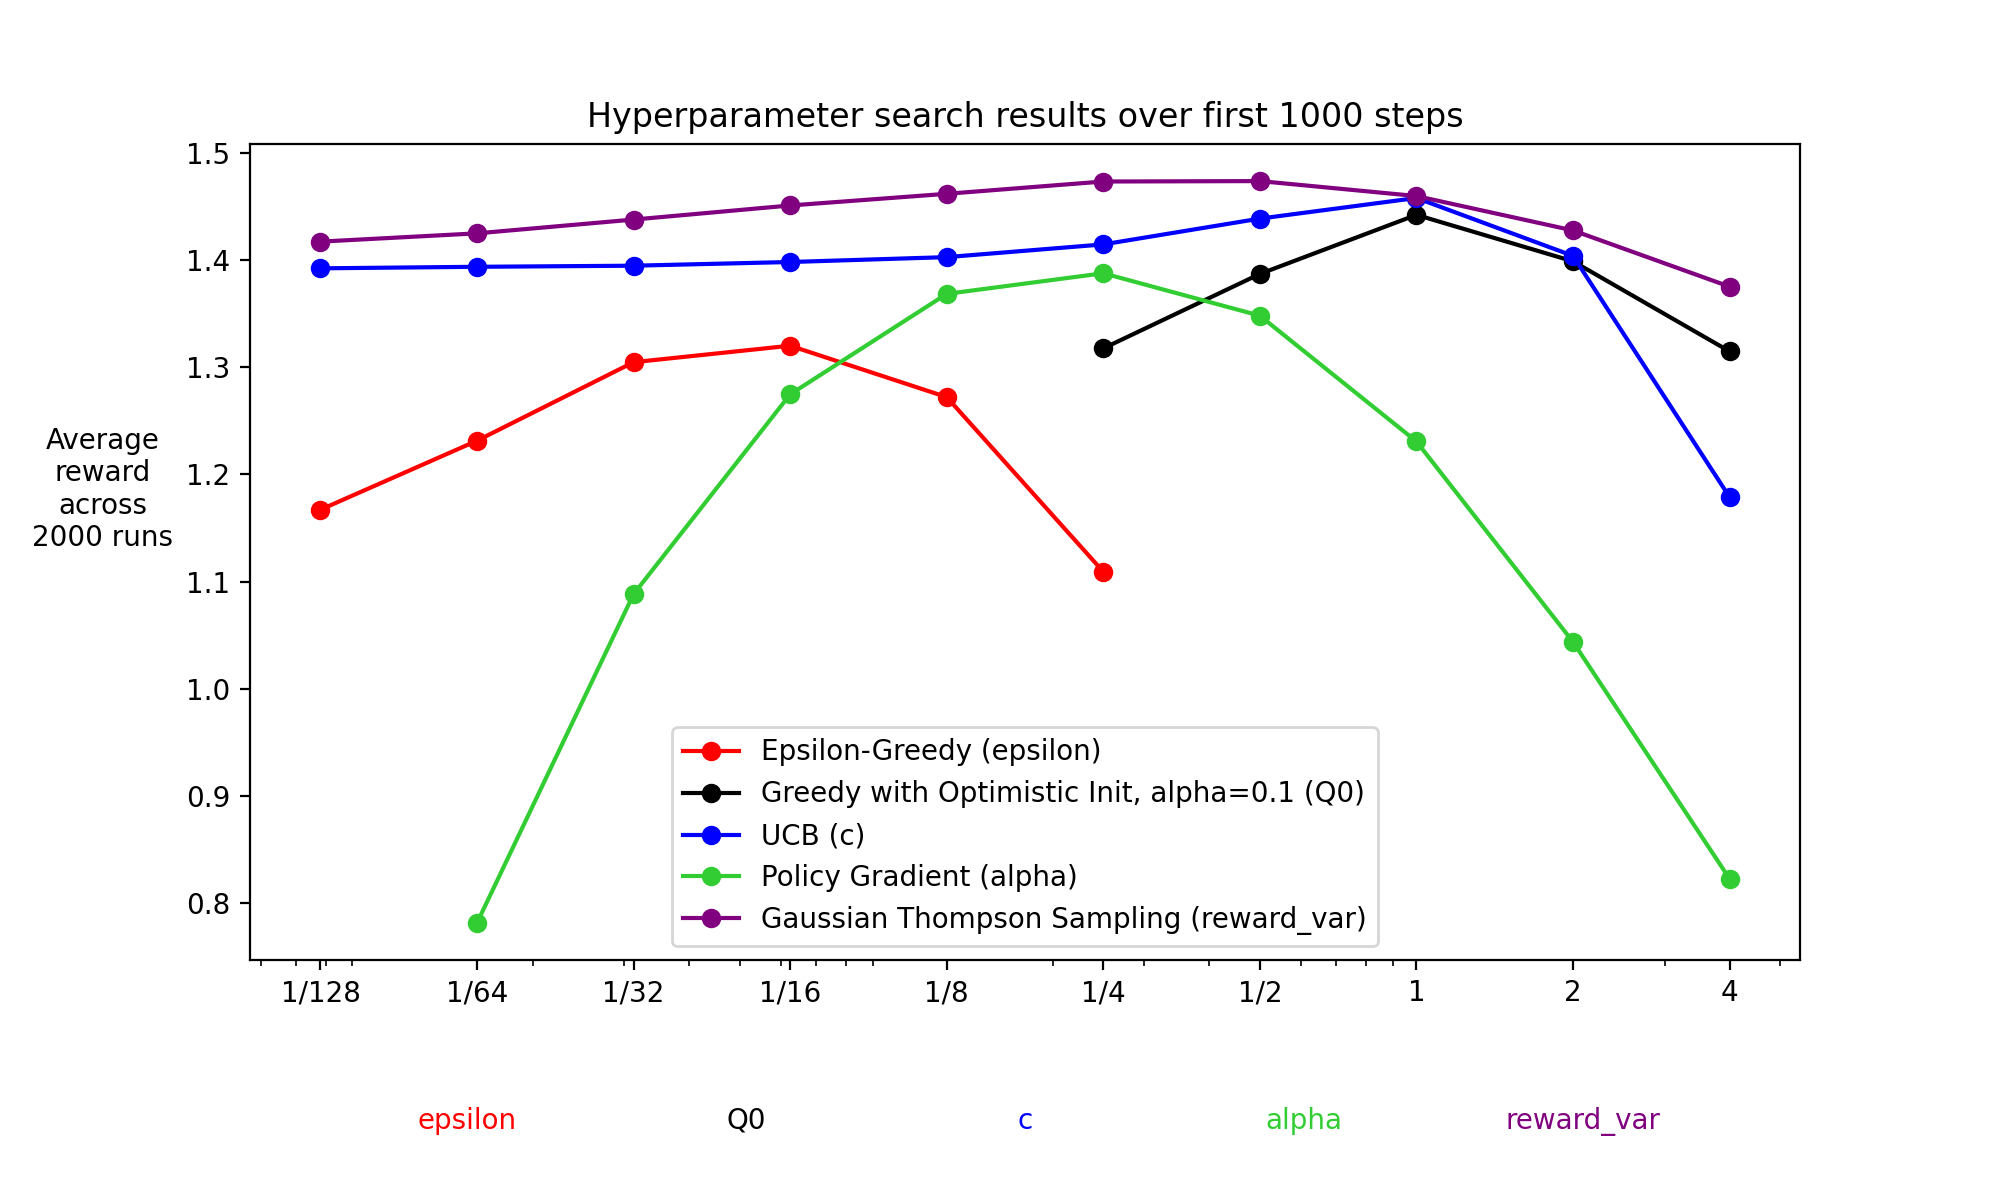
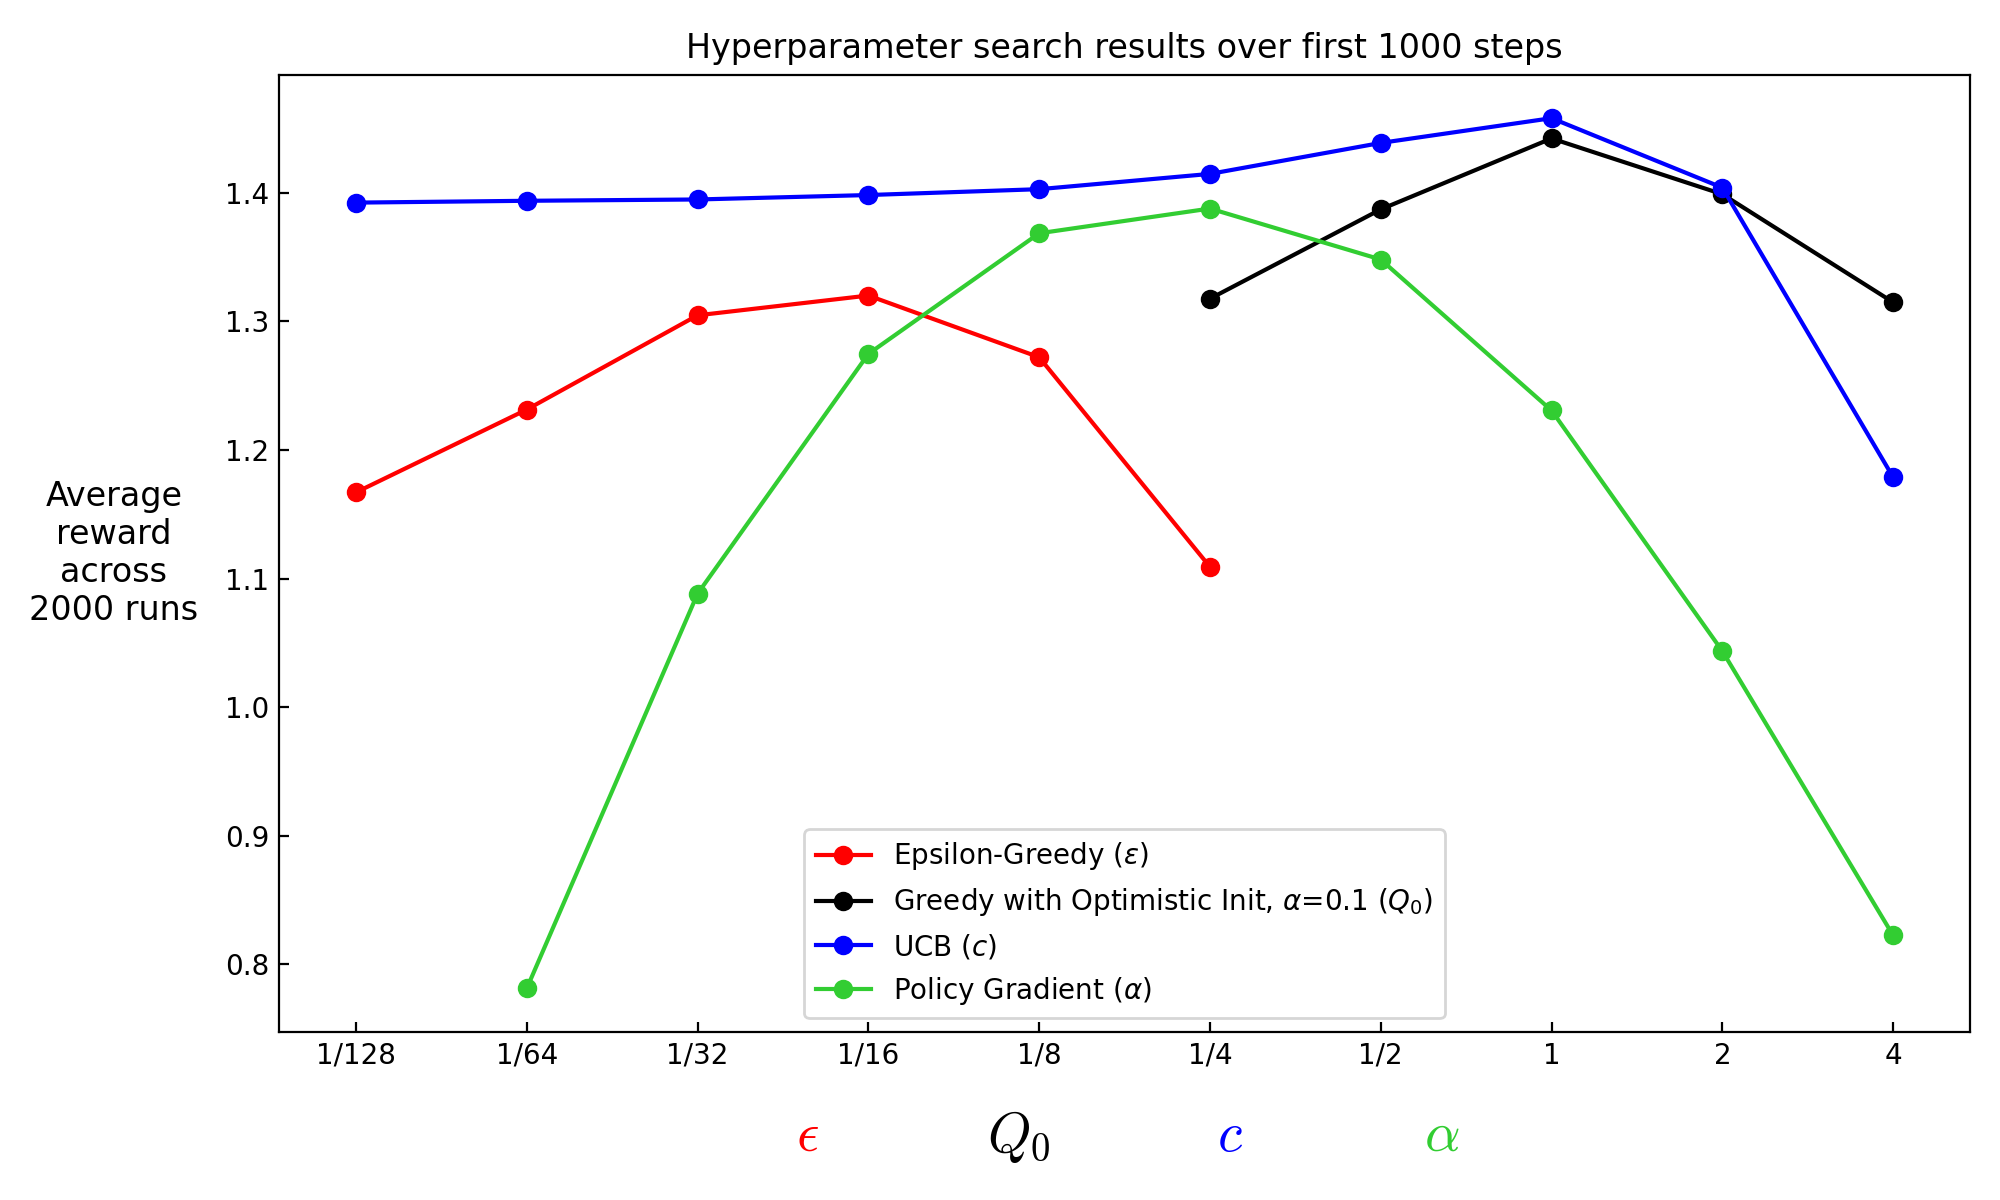
Bandit results visualised

diff --git a/bandits/main.py b/bandits/main.py
@@ -1,6 +1,7 @@
 from dataclasses import dataclass
 from typing import Callable, Tuple
 from pathlib import Path
+import re
 import os
 import json
 import numpy as np
@@ -201,8 +202,10 @@ def do_parameter_search(cache_folder: Path, params: list[dict], sims: int, sim_l
 
     for spec in params:
         agent_cls = spec.get('class')
+        assert agent_cls is not None, f"Missing 'class' in spec: {spec}"
         series_name = spec.get('name', getattr(agent_cls, '__name__', 'agent'))
         plot_colour = spec.get('plot_colour', 'black')
+        hyper_label = spec.get('hyper_name')
 
         # find the single hyperparameter key whose value is a list/tuple
         list_keys = [k for k, v in spec.items() if isinstance(v, (list, tuple))]
@@ -215,13 +218,13 @@ def do_parameter_search(cache_folder: Path, params: list[dict], sims: int, sim_l
         hyper_key = list_keys[0]
         values = list(spec[hyper_key])
 
-        results[series_name] = (plot_colour, hyper_key, {})
+        results[series_name] = (plot_colour, hyper_label or hyper_key, {})
 
         for val in values:
             # build agent kwargs: copy scalar entries, replace list with current val
             agent_kwargs: dict = {}
             for k, v in spec.items():
-                if k in ('class', 'name', 'plot_colour'):
+                if k in ('class', 'name', 'plot_colour', 'hyper_name'):
                     continue
                 if k == hyper_key and isinstance(v, (list, tuple)):
                     agent_kwargs[k] = val
@@ -274,14 +277,14 @@ def do_parameter_search(cache_folder: Path, params: list[dict], sims: int, sim_l
             n_steps = int(agg.get('n_steps', mean_reward.size))
 
             # area under learning curve (normalized per step)
-            auc = float(np.trapz(mean_reward))
+            auc = float(np.trapezoid(mean_reward))
             avg_per_step = auc / float(n_steps)
 
             results[series_name][2][float(val)] = avg_per_step
 
     return results
 
-def figure_2_6(results_folder: str, datapoints: dict, sims: int, sim_length: int):
+def figure_2_6(results_folder: str, datapoints: dict, sims: int, sim_length: int, name: str=""):
     # datapoints: { series_name: (plot_colour, hyperparameter_name, {x_val: y_val, ...}), ... }
     if not datapoints:
         print("No datapoints provided to figure_2_6")
@@ -306,6 +309,7 @@ def figure_2_6(results_folder: str, datapoints: dict, sims: int, sim_length: int
 
     # plot each series
     for series_name, (colour, hyperparameter_name, mapping) in datapoints.items():
+        series_name = re.sub(r'alpha', r'$\\alpha$', series_name, flags=re.IGNORECASE)
         # sort by x value (keys may be numeric already)
         items = sorted(mapping.items(), key=lambda t: float(t[0]))
         x = [float(t[0]) for t in items]
@@ -315,6 +319,8 @@ def figure_2_6(results_folder: str, datapoints: dict, sims: int, sim_length: int
 
     if use_log_x:
         ax.set_xscale('log')
+        ax.tick_params(axis="both", which="major", direction="in")
+        ax.minorticks_off()
 
     # Set x ticks to powers of two that cover the data range
     if numeric_x:
@@ -341,7 +347,7 @@ def figure_2_6(results_folder: str, datapoints: dict, sims: int, sim_length: int
                 ax.set_xticklabels(tick_labels)
 
     # rotate the y axis label by 90 degrees
-    ax.set_ylabel(f'Average\nreward\nacross\n{sims} runs', rotation=0, labelpad=30)
+    ax.set_ylabel(f'Average\nreward\nacross\n{sims} runs', rotation=0, labelpad=40, va='center', fontsize=12)
 
     # remove grid marks
     ax.grid(False)
@@ -352,21 +358,25 @@ def figure_2_6(results_folder: str, datapoints: dict, sims: int, sim_length: int
     # Replace the x-axis label area with coloured hyperparameter names
     # Place one coloured text per series below the x-axis
     num = len(datapoints)
+    old_rcParams = plt.rcParams["mathtext.fontset"]
+    plt.rcParams["mathtext.fontset"] = "cm"
     if num:
         # small horizontal margins
-        left = 0.05
-        right = 0.95
+        left = 0.25
+        right = 0.75
         span = right - left
         step = span / max(1, num)
         for idx, (series_name, (colour, hyperparameter_name, mapping)) in enumerate(datapoints.items()):
             tx = left + step * idx + step / 2
-            ax.text(tx, -0.18, f'{hyperparameter_name}', transform=ax.transAxes,
-                    color=colour, fontsize=10, ha='center', va='top', clip_on=False)
+            ax.text(tx, -0.08, f'{hyperparameter_name}', transform=ax.transAxes,
+                    color=colour, fontsize=20, ha='center', va='top', clip_on=False)
+    plt.rcParams["mathtext.fontset"] = old_rcParams
 
     # make space for the coloured labels
-    fig.subplots_adjust(bottom=0.2)
+    fig.tight_layout()
+    fig.subplots_adjust(bottom=0.14)
 
-    out_path = os.path.join(results_folder, f'parameter_search_{sims}_{sim_length}.png')
+    out_path = os.path.join(results_folder, f'parameter_search_{sims}_{sim_length}{name}.png')
     fig.savefig(out_path, dpi=200)
     plt.close(fig)
 
@@ -431,6 +441,7 @@ if __name__ == "__main__":
             'plot_colour': 'red',
             'Q0': 0,
             'alpha': None,
+            'hyper_name': r'$\epsilon$',
             'epsilon' : [1/128, 1/64, 1/32, 1/16, 1/8, 1/4],
         },
         {
@@ -438,12 +449,14 @@ if __name__ == "__main__":
             'name': 'Greedy with Optimistic Init, alpha=0.1',
             'plot_colour': 'black',
             'alpha': 0.1,
+            'hyper_name': r'$Q_0$',
             'Q0' : [1/4, 1/2, 1, 2, 4],
         },
         {
             'class': UCBAgent,
             'name': 'UCB',
             'plot_colour': 'blue',
+            'hyper_name': r'$c$',
             'c': [1/128, 1/64, 1/32, 1/16, 1/8, 1/4, 1/2, 1, 2, 4],
         },
         {
@@ -451,6 +464,7 @@ if __name__ == "__main__":
             'name': 'Policy Gradient',
             'plot_colour': 'limegreen',
             'use_baseline': True,
+            'hyper_name': r'$\alpha$',
             'alpha': [1/64, 1/32, 1/16, 1/8, 1/4, 1/2, 1, 2, 4],
         },
         {
@@ -464,7 +478,7 @@ if __name__ == "__main__":
     ]
 
     data_points = do_parameter_search(Path(results_folder) / "cache", params, 2000, 1000)
-    figure_2_6(results_folder, data_points, 2000, 1000)
+    figure_2_6(results_folder, data_points, 2000, 1000, name="_extended")
     
     data_points = do_parameter_search(Path(results_folder) / "cache", params, 2000, 5000)
-    figure_2_6(results_folder, data_points, 2000, 5000)
+    figure_2_6(results_folder, data_points, 2000, 5000, name="_extended")

diff --git a/bandits/bandits.md b/bandits/bandits.md
@@ -1,0 +1,73 @@
+# Results
+
+## Barto and Sutton Figures
+
+<html>
+    <br>
+    <img src="./results/greedy_gaussian_2000_1000.png" alt="figure" width="800">
+</html>
+
+**Figure 2.2:** Average performance of epsilon-greedy action-value methods on the 10-armed testbed.
+These data are averages over 2000 runs with different bandit problems. All methods used sample
+averages as their action-value estimates
+
+<html>
+    <br>
+    <img src="./results/optimistic_vs_realistic_greedy_gaussian_2000_1000.png" alt="figure" width="800">
+</html>
+
+**Figure 2.3:** The effect of optimistic initial action-value estimates on the 10-armed testbed.
+Both methods used a constant step-size parameter, alpha = 0.1.
+
+<html>
+    <br>
+    <img src="./results/ucb_vs_epsilon_greedy_gaussian_2000_1000.png" alt="figure" width="800">
+</html>
+
+**Figure 2.4:** Average performance of UCB action selection on the 10-armed testbed. As shown,
+UCB generally performs better than epsilon-greedy action selection, except in the first k steps, when
+it selects randomly among the as-yet-untried actions.
+
+<html>
+    <br>
+    <img src="./results/policy_gradient_base4_gaussian_2000_1000.png" alt="figure" width="800">
+</html>
+
+**Figure 2.5:** Average performance of the gradient bandit algorithm with and without a reward
+baseline on the 10-armed testbed when the q*(a) are chosen to be near +4 rather than near zero.
+
+<html>
+    <br>
+    <img src="./results/parameter_search_2000_1000.png" alt="figure" width="800">
+</html>
+
+**Figure 2.6:** A parameter study of the various bandit algorithms presented in this chapter.
+Each point is the average reward obtained over 1000 steps with a particular algorithm at a
+particular setting of its parameter.
+
+Note: In my version I have included a wider range for some hyperparameters. UCB's was extended to 1/128 to demonstate its stability, policy gradient to illustrate its sensitivity.
+
+## Appendix
+
+### Thompson Sampling
+
+Must have the conjugate prior. Turns out to be better than the other algorithms (Supplemetary Figure C). It is robust to priors of mean/variance of the bandit value (inital guess and uncertainty), but the variance of the reward (how much to trust each observation) affects it greatly -- low variance equates to trusting observations too much i.e. being too greedy in a sense and not finding the optimal action (Supplemetary Figure B).
+
+<html>
+    <img src="./results/gaussian_thompsons_gaussian_s1.0_2000_1000.png" alt="figure" width="800">
+</html>
+
+**Supplementary Figure A:** Thompson Sampling
+
+<html>
+    <img src="./results/gaussian_thompsons_gaussian_s0.04_2000_1000.png" alt="figure" width="800">
+</html>
+
+**Supplementary Figure B:** Thompson Sampling with a lower reward variance leads to fast learning to good actions but ultimately too greedy to explore and find the best.
+
+<html>
+    <img src="./results/parameter_search_2000_1000_extended.png" alt="figure" width="800">
+</html>
+
+**Supplementary Figure C:** A parameter study of the various bandit algorithms presented in this chapter, plus Thompson Sampling.\
+Each point is the average reward obtained over 1000 steps with a particular algorithm at a particular setting of its parameter.
